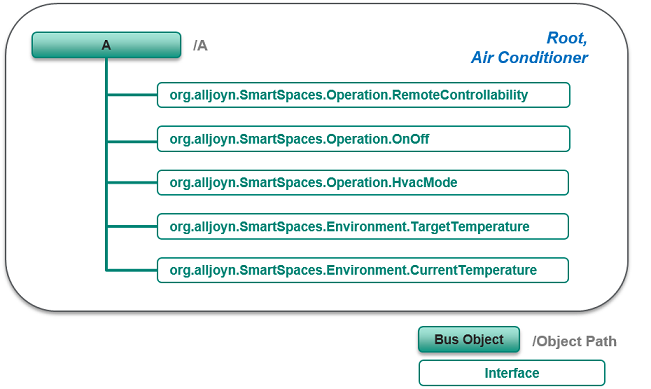
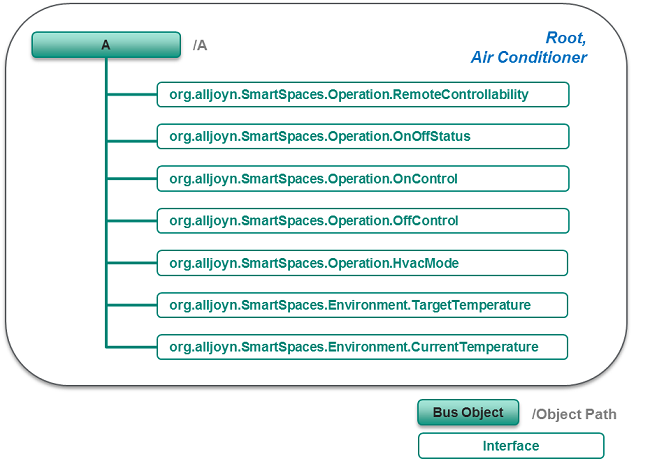
HAE Service Framework: Theory of operation document v1

Changed region(s): [[0.0, 0.0, 0.9846, 1.0], [0.9538, 0.0925, 0.9846, 0.1234]]

diff --git a/docs/interfaces/org.alljoyn.SmartSpaces/theory-of-operation-v1.md b/docs/interfaces/org.alljoyn.SmartSpaces/theory-of-operation-v1.md
@@ -5,9 +5,9 @@ Entertainment (HAE) Service Framework should work.
 
 ### Overview
 
-HAE service framework defines a common set of standard interfaces to be shared 
-for AllJoyn representation of HAE devices and provides a common open source 
-implementation. These standard interfaces abstact common capabilities across 
+HAE service framework defines a common set of standard interfaces to be shared
+for AllJoyn representation of HAE devices and provides a common open source
+implementation. These standard interfaces abstract common capabilities across
 device vendors and across device types. The followings are benefits of
 this service framework.
 
@@ -17,7 +17,7 @@ The common set of standardized AllJoyn interfaces establish the cross-vendor
 interoperability. Devices from different vendors can interact with each other,
 and devices from various vendors will be controlled and monitored by a control
 application from another vendor. In addition to the guaranteed interoperability,
-consistent user expierences across devices from different vendors can be
+consistent user experiences across devices from different vendors can be
 provided to end-users thanks to the shared common set of capabilities.
 
 ##### Machine-to-machine interactions
@@ -60,7 +60,7 @@ an air conditioner or a clothes washer. The _Controller App_ is an application
 software that runs on the user's terminal such as a smart phone or a tablet, and
 communicates with HAE controllee devices through the AllJoyn bus. The HAE service
 framework implements all the required interfaces to represent HAE devices over the
-AllJoyn bus and control the HAE devices. Application developers making use this
+AllJoyn bus and control the HAE devices. Application developers making use of this
 service framework implement against the HAE service framework APIs (controllee and
 controller side).
 
@@ -84,29 +84,29 @@ _org.alljoyn.SmartSpaces_ prefix is omitted for simplicity.
 
 | Device Type        | Id |  Description | Minimum required interfaces |
 |--------------------|----|--------------|----------------------|
-|Root                | 0  | It is introduced to locate the HAE root bus object which represent the entire device HAE service framework announces. It doesn't carry any informtion about device type specifics. | None |
+|Root                | 0  | It is introduced to locate the HAE root bus object which represent the entire device HAE service framework announces. It doesn't carry any information about device type specifics. | None |
 |Other               | 1  | It is a type for a device that implements the service framework defined interface(s), but doesn't necessarily have to be recognized as a specific type of device. As an example, for a simple contact sensor which reports open/closed status of a larger objects such as a door or a window on which it is attached, the information about its implemented interface could be enough. | None |
 |Refrigerator        | 2  | Device that stores food at temperatures which are a few degrees above the freezing point of water.| Operation.ClosedStatus |
 |Freezer             | 3  | Device that stores food at temperatures which are a few degrees below the freezing point of water (typically about -18 &deg;C), so the food itself is safe indefinitely.| Operation.ClosedStatus |
 |Ice Maker           | 4  | Device that makes ice. It exists as a sub-unit inside a refrigerator container or as a standalone-device.| None |
-|Air Conditioner     | 5  | Device that alters the properties of air (primarily temperature and humidity) to more comfortable conditions. | Operation.OnOff, Operation.HvacMode, Environment.TargetTemperature, Environment.CurrentTemperature |
-|Thermostat          | 6  | Control unit that senses the temperature of a system so that the system's temperature is maintained near a desired set point. The thermostat does this by switching heating or cooling devices on or off or regulating the flow of a heat transfer fluid as needed to maintain the correct temperature.| Operation.OnOff, Operation.HvacMode, Environment.TargetTemperature, Environment.CurrentTemperature |
-|Humidifier          | 7  | Device that increases air humidity (moisture) in a single room or an entire building.| Operation.OnOff |
-|Dehumidifier        | 8  | Device that decreases air humidity (moisture) in a single room or an entire building.| Operation.OnOff, Environment.TargetHumidity, Environment.CurrentHumidity |
-|Air Purifier        | 9  | Device that has a filter that removes dust from the air.| Operation.OnOff |
-|Electric Fan        | 10 | Traditional style fan usually with blades visible from outside.| Operation.OnOff |
+|Air Conditioner     | 5  | Device that alters the properties of air (primarily temperature and humidity) to more comfortable conditions. | Operation.OnOffStatus, Operation.ClimateControlMode, Environment.TargetTemperature, Environment.CurrentTemperature |
+|Thermostat          | 6  | Control unit that senses the temperature of a system so that the system's temperature is maintained near a desired set point. The thermostat does this by switching heating or cooling devices on or off or regulating the flow of a heat transfer fluid as needed to maintain the correct temperature.| Operation.OnOffStatus, Operation.ClimateControlMode, Environment.TargetTemperature, Environment.CurrentTemperature |
+|Humidifier          | 7  | Device that increases air humidity (moisture) in a single room or an entire building.| Operation.OnOffStatus |
+|Dehumidifier        | 8  | Device that decreases air humidity (moisture) in a single room or an entire building.| Operation.OnOffStatus, Environment.TargetHumidity, Environment.CurrentHumidity |
+|Air Purifier        | 9  | Device that has a filter that removes dust from the air.| Operation.OnOffStatus |
+|Electric Fan        | 10 | Traditional style fan usually with blades visible from outside.| Operation.OnOffStatus |
 |Air Quality Monitor | 11 | Device that checks and reports the air quality.| At least one between Environment.CurrentAirQuality and Environment.CurrentAirQualityLevel |
-|Clothes Washer      | 12 | Device that washes laundry such as clothing and sheets.| Operation.OnOff, Operation.CycleControl, Operation.LaundryCycle |
-|Clothes Dryer       | 13 | Device that removes moisture from a load of clothing and other textiles usually shortly after they are washed in a washer.| Operation.OnOff, Operation.CycleControl, Operation.LaundryCycle |
-|Clothes Washer-Dryer| 14 | Device that executes the operations of both a washer and a dryer in a single cavity.| Operation.OnOff, Operation.CycleControl, Operation.LaundryCycle |
-|Dish Washer         | 15 | Device that clean dishes and eating utensils.| Operation.OnOff, Operation.CycleControl, Operation.DishWashingCycle |
-|Robot Cleaner       | 16 | An autonomous robotic vacuum cleaner that has intelligent programming and a limited vacuum cleaning system. | Operation.OnOff, Operation.CycleControl, Operation.RobotCleaningCycle |
-|Oven                | 17 | Device that roasts and heats food in a complete stove. | Operation.OnOff, Operation.CycleControl, Operation.OvenCycle |
-|Cooker Hood         | 18 | Device that usually hangs above the stove or cooktop and it is used to removes airborne grease, combustion products, fumes, smoke, odours, heat, and steam from the air by evacuation of the air and filtration. | Operation.OnOff, Operation.HvacMode, Environment.WindStrength |
+|Clothes Washer      | 12 | Device that washes laundry such as clothing and sheets.| Operation.OnOffStatus, Operation.CycleControl, Operation.LaundryCycle |
+|Clothes Dryer       | 13 | Device that removes moisture from a load of clothing and other textiles usually shortly after they are washed in a washer.| Operation.OnOffStatus, Operation.CycleControl, Operation.LaundryCycle |
+|Clothes Washer-Dryer| 14 | Device that executes the operations of both a washer and a dryer in a single cavity.| Operation.OnOffStatus, Operation.CycleControl, Operation.LaundryCycle |
+|Dish Washer         | 15 | Device that cleans dishes and eating utensils.| Operation.OnOffStatus, Operation.CycleControl, Operation.DishWashingCycle |
+|Robot Cleaner       | 16 | An autonomous robotic vacuum cleaner that has intelligent programming and a limited vacuum cleaning system. | Operation.OnOffStatus, Operation.CycleControl, Operation.RobotCleaningCycle |
+|Oven                | 17 | Device that roasts and heats food in a complete stove. | Operation.OnOffStatus, Operation.CycleControl, Operation.OvenCycle |
+|Cooker Hood         | 18 | Device that usually hangs above the stove or cooktop and it is used to removes airborne grease, combustion products, fumes, smoke, odours, heat, and steam from the air by evacuation of the air and filtration. | Operation.OnOffStatus, Operation.HvacMode, Operation.FanSpeedLevel |
 |Cooktop             | 19 | Device with a flat framework used to place pots to be heated so the food inside is cooked. | Operation.HeatingZone |
-|FoodProbe           | 20 | Device used for checking the preparation of foods (typically the meat) to ensure that the appropriate and safe internal temperature has been achieved. Some probes are inserted into the food, other are just placed close to it. | Environment.TargetTemperature, Operation.InsertionStatus |
-|Television          | 21 | Device that receives broadcast programs and show the video and audio contents with its integrated display and speaker. | Operation.OnOff, Operation.Channel, Operation.AudioVolume |
-|SetTopBox           | 22 | Device that receives audio and visual contents such as broadcasting program and network streaming and convert them for showing on a display device such as TV. | Operation.OnOff |
+|FoodProbe           | 20 | Device used for checking the preparation of foods (typically the meat) to ensure that the appropriate and safe internal temperature has been achieved. Some probes are inserted into the food, other are just placed close to it. | Environment.TargetTemperature |
+|Television          | 21 | Device that receives broadcast programs and show the video and audio contents with its integrated display and speaker. | Operation.OnOffStatus, Operation.Channel, Operation.AudioVolume |
+|SetTopBox           | 22 | Device that receives audio and visual contents such as broadcasting program and network streaming and convert them for showing on a display device such as TV. | Operation.OnOffStatus |
 
 ### Service Framework's Custom Metadata Fields
 
@@ -158,7 +158,7 @@ it is a HAE root bus object.
 Under this bus object, the air conditioner exposes its capabilities
 such as getting remote control disabled/enabled status, on/off control,
 setting target temperature, and getting current temperature by the
-implemented inferfaces.
+implemented interfaces.
 
 Root device of simple model can have its children HAE devices at need.
 
@@ -172,7 +172,7 @@ Figure 3: Example simple device model for air conditioner
 A combo device model houses two or more HAE devices right under the HAE
 root bus object. There are already so many types of complicated home
 appliances housing multiple sub units where each sub unit can be easily
-seen as a separate real prodcut on the market. For examples, some kitchen
+seen as a separate real product on the market. For examples, some kitchen
 appliances consist of oven and cooktop, some refrigerators have multiple
 refrigeration compartments and even ice maker. More creative innovations
 will come in the HAE category products.
@@ -182,7 +182,7 @@ This refrigerator consists of two refrigeration compartments and one
 ice maker. So the entire device contains three children HAE devices:
 _Refrigerator_, _Freezer_, and _Ice Maker_. Each bus object corresponding
 to sub units or children devices reveals their exposed interaction
-capabilites.
+capabilities.
 
 The root bus object doesn't have any device type associated other than
 the _Root_ device type. The _Root_ device type is just introduced to
@@ -195,14 +195,14 @@ right under the HAE root bus object applies to the entire device.
 
 ![](hae_example_refrigerator.png)
 
-Figure 4: Example combo device model for refrigeratior
+Figure 4: Example combo device model for refrigerator
 
 #### Semantic Meaning Identification of Interfaces
 
-The AllJoyn interfaces developed for modelling HAE devices are defined as
+The AllJoyn interfaces developed for modeling HAE devices are defined as
 generic as possible to increase reusability across devices and even by other
 service frameworks. So sometimes, the semantic meanings of the implemented
-interfaces can't be resovled without knowing its associated device type.
+interfaces can't be resolved without knowing its associated device type.
 As can be seen in _Figure 4_, the same temperature related interfaces are
 implemented under "/HAE/Alpha" and "/HAE/Beta", respectively. One is for
 the refrigerator compartment, and the other is for the freezer compartment.
@@ -215,7 +215,7 @@ can be also implemented for _Air Conditioner_, _Oven_, and _Food Probe_, etc.
 Before joining a session, discovery of HAE service framework and the implemented
 HAE device types should be enabled. For this reason, the service framework's
 own custom field, org.alljoyn.SmartSpaces.DeviceDescription will be appended
-to About metatdata.
+to About metadata.
 
 #### DeviceDescription Field
 
@@ -227,12 +227,12 @@ Instead, children bus objects whose device types are not identified will inherit
 their parent's device type.
 
 The DeviceDescription is an array of tuples, each tuple consists of HAE device
-type identifier and bus object patch. For the air conditioner and refrigerator
-examples described in _Figure 3_ and _Figure 4_, the following values will
-be signaled as DeviceDescription respectively.
+type identifier(uint32) and bus object patch(string). For the air conditioner
+and refrigerator examples described in _Figure 3_ and _Figure 4_,
+the following values will be signaled as DeviceDescription respectively.
 
-* DeviceDescription = { <"/A", 0>, <"/A", 5> } for the example air conditioner
-* DeviceDescription = { <"/HAE", 0>, <"/HAE/Alpha", 2>, <"/HAE/Beta", 3>, <"/HAE/Gamma", 4> }
+  * DeviceDescription = { <"/A", 0>, <"/A", 5> } for the example air conditioner
+  * DeviceDescription = { <"/HAE", 0>, <"/HAE/Alpha", 2>, <"/HAE/Beta", 3>, <"/HAE/Gamma", 4> }
                       for the example refrigerator
 
 #### Discovery Call Flow
@@ -240,15 +240,15 @@ be signaled as DeviceDescription respectively.
 Discovery of HAE service framework follows the general mechanism of About.
 But since there is no representative interface for HAE service framework
 and different HAE types will implement different sets of interfaces,
-the presence of the DeviceDescription metadata field in About announcemnt
+the presence of the DeviceDescription metadata field in About announcement
 shall be used for discovery of the HAE service framework instead.
 
 _Figure 5_ illustrates a typical discovery call flow for HAE service framework.
-As already explained, checking to see if About announcement supports the HAE 
-service framework will be the first step in discovery process. After that, 
-the controller will examine the DeviceDescription metadata field to see 
-if the controllee supports HAE device(s) of interest. As a further step, 
-the controller can check if the discovered HAE device(s) supports interfaces 
+As already explained, checking to see if About announcement supports the HAE
+service framework will be the first step in discovery process. After that,
+the controller will examine the DeviceDescription metadata field to see
+if the controllee supports HAE device(s) of interest. As a further step,
+the controller can check if the discovered HAE device(s) supports interfaces
 of interest.
 
 ![](hae_discovery_call_flow.png)
